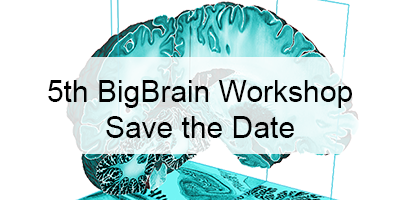
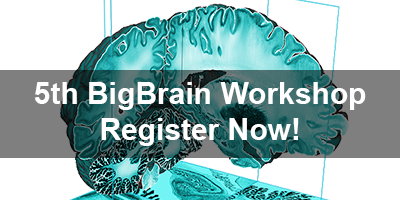
#126 Updated BBWorkshop card - index and news

diff --git a/index.html b/index.html
@@ -132,23 +132,23 @@
           </div>
         </div> -->
         <div class="slider-card-holder">
-              <div class="frontpage-card" data-mh="cards">
-                <img src="images/news/katrin-news.jpg" class="card-image-square">
-                <div class="tool-name">Interview with Katrin Amunts: Dem Gehirn auf der Spur</div>
-                <div class="tool-maker"><em>date: May 13 2021</em></div>
-                <div class="tool-description">German interview with Katrin Amunts.
-                </div>
-                <a href="https://effzett.fz-juelich.de/3-20/dem-gehirn-auf-der-spur/" class="tool-link">Go to article <i class="fas fa-arrow-right"></i></a><br>
-              </div>
-            </div>
-        <div class="slider-card-holder">
           <div class="frontpage-card" data-mh="cards">
             <img src="images/news/5thbbworkshop.png" class="card-image-square">
             <div class="tool-name">5th BigBrain Workshop </div>
             <div class="tool-maker"><em>date:</em> Sept 21-23 2021</div>
-            <div class="tool-description"><strong>Zadar, Croatia</strong><br>
-            Details are coming soon. Stay tuned!</div>
-            <!-- <a href="https://brainhack-micro2macro.github.io/" class="tool-link">Register <i class="fas fa-arrow-right"></i></a> -->
+            <div class="tool-description"><strong>Online</strong><br>
+            5th BigBrain Workshop will be a virtual event again. Registration is now open: </div>
+            <a href="https://go.fzj.de/BigBrainWorkshop2021" class="tool-link">Register <i class="fas fa-arrow-right"></i></a>
+          </div>
+        </div>
+        <div class="slider-card-holder">
+          <div class="frontpage-card" data-mh="cards">
+            <img src="images/news/katrin-news.jpg" class="card-image-square">
+            <div class="tool-name">Interview with Katrin Amunts: Dem Gehirn auf der Spur</div>
+            <div class="tool-maker"><em>date: May 13 2021</em></div>
+            <div class="tool-description">German interview with Katrin Amunts.
+            </div>
+            <a href="https://effzett.fz-juelich.de/3-20/dem-gehirn-auf-der-spur/" class="tool-link">Go to article <i class="fas fa-arrow-right"></i></a><br>
           </div>
         </div>
         <div class="slider-card-holder">

diff --git a/news.html b/news.html
@@ -137,9 +137,9 @@
                 <img src="images/news/5thbbworkshop.png" class="card-image-square">
                 <div class="tool-name">5th BigBrain Workshop </div>
                 <div class="tool-maker"><em>date:</em> Sept 21-23 2021</div>
-                <div class="tool-description"><strong>Zadar, Croatia</strong><br>
-                Details are coming soon. Stay tuned!</div>
-                <!-- <a href="https://brainhack-micro2macro.github.io/" class="tool-link">Register <i class="fas fa-arrow-right"></i></a> -->
+                <div class="tool-description"><strong>Online</strong><br>
+                5th BigBrain Workshop will be a virtual event again. Registration is now open: </div>
+                <a href="https://go.fzj.de/BigBrainWorkshop2021" class="tool-link">Register <i class="fas fa-arrow-right"></i></a>
               </div>
             </div>
             <!-- End of slides -->
